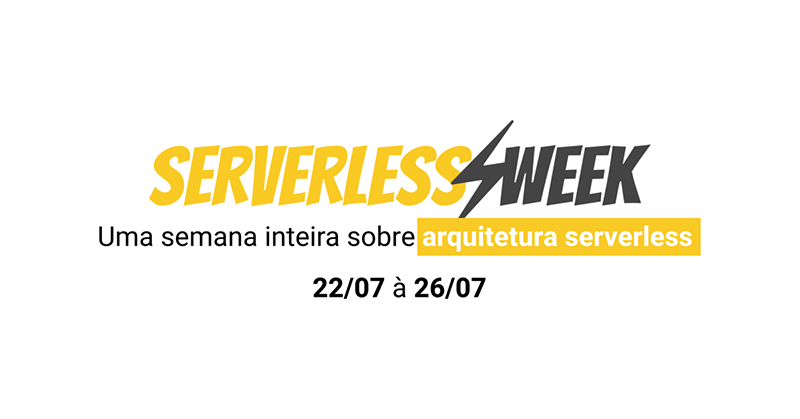
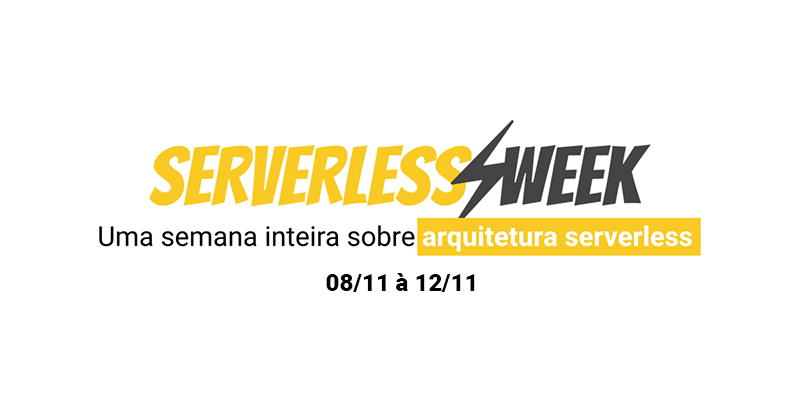
chore: add c4p link

Changed region(s): [[0.375, 0.6516, 0.625, 0.7136]]

diff --git a/components/InfoSection.vue b/components/InfoSection.vue
@@ -16,7 +16,6 @@
         alignY="flex-start">
         <ul class="info-list">
           <li>Os vídeos estarão disponíveis em nosso <a href="https://www.youtube.com/channel/UCrpv9cNaImDENrYz1eqnXzw">canal do YouTube</a>. Não esqueça de curtir, compartilhar e se inscrever 😍</li>
-          <li>Confirme sua presença em nosso <a href="https://www.facebook.com/events/291536171785412/">evento no Facebook!</a> Lá você também poderá acompanhar os anuncios oficiais e também interagir com os demais participantes!</li>
           <li>O evento é totalmente online, não é necessário comparecer em nenhum local para assistí-lo (que tal assistir com os amigos? 🍻)</li>
         </ul>
         <ul class="info-list">

diff --git a/components/SpeakersSection.vue b/components/SpeakersSection.vue
@@ -4,13 +4,13 @@
       <StyledTitle
         :styles="{
           color: 'white',
-          marginBottom: '20px',
         }">
         Palestrantes
       </StyledTitle>
-      <StyledSubTitle :styles="{ color: 'white' }">
-        Mais informações em breve...
+      <StyledSubTitle :styles="{ color: 'white', marginBottom: '20px' }">
+        Quer falar sobre algum assunto relacionado a serverless? 👇🏻
       </StyledSubTitle>
+      <StyledButton :clickFn="navigate" text="Mande sua palestra 🚀" />
       <!--
       <SpeakerCollapse
         v-for="(speaker, index) in speakers"

diff --git a/components/Banner.vue b/components/Banner.vue
@@ -42,7 +42,7 @@
         <span :style="{ fontSize: '25px', fontWeight: 700 }">
           Evento online
         </span>
-        - 25 à 29 de outubro.
+        - 8 à 12 de novembro.
       </StyledSubTitle>
 
     </GridContainer>
